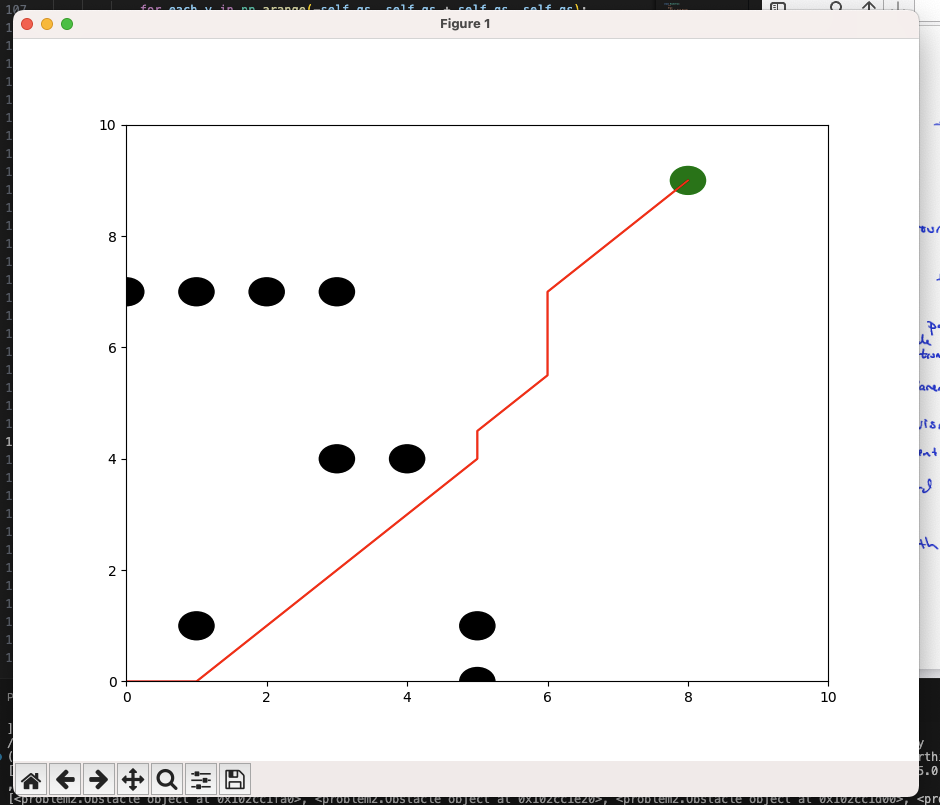
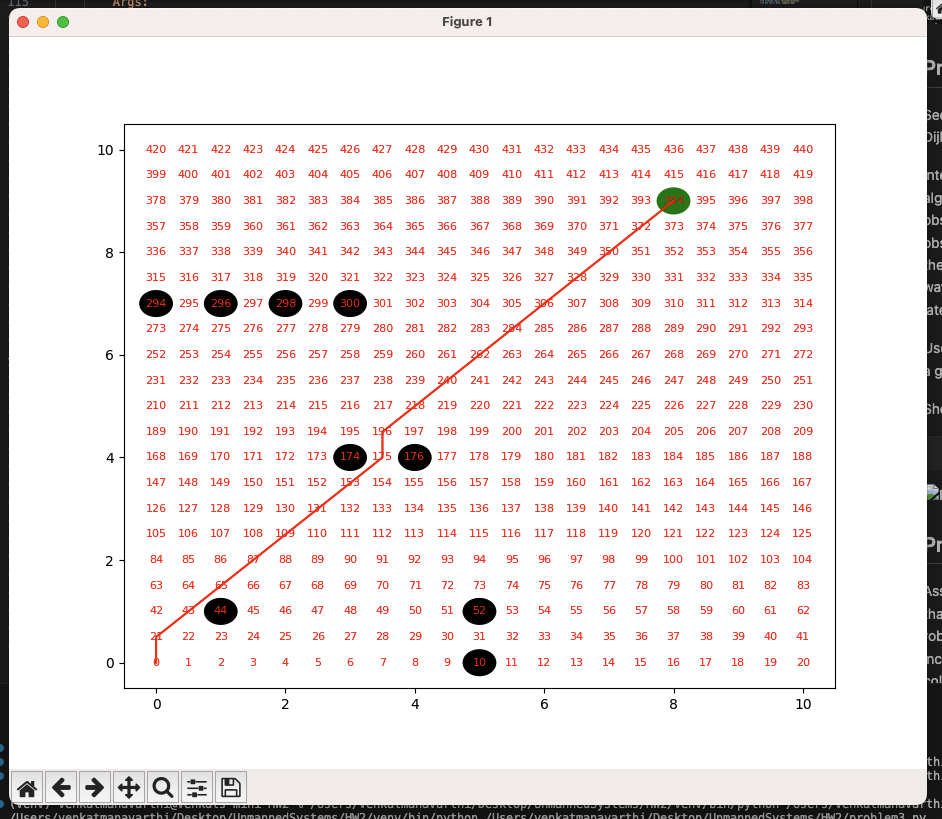
Problem 3

Changed region(s): [[0.0926, 0.1553, 0.8947, 0.8696], [0.0, 0.0, 1.0, 1.0], [0.5862, 0.7143, 0.617, 0.7453]]

diff --git a/problem3.py b/problem3.py
@@ -117,18 +117,26 @@ class Dijkstras:
         Returns:
           None
         """
-        print(route)
         import matplotlib.pyplot as plt
+        import numpy as np
         fig, ax = plt.subplots()
-        ax.set_xlim(0, 10)
-        ax.set_ylim(0, 10)
-        print(self.obs_list) 
+
+        x_values = np.arange(self.min_x, self.max_x + self.gs, self.gs)
+        y_values = np.arange(self.min_y, self.max_y + self.gs, self.gs)
+
+        for y in y_values:
+            for x in x_values:
+                index = compute_index(self.min_x, self.max_x, self.min_y, self.max_y, self.gs, x, y)
+                plt.text(x, y, str(index), color='red', fontsize=8, ha='center', va='center')
+
         for obs in self.obs_list:
             obs_plot = plt.Circle((obs.x, obs.y), obs.radius, color='black')
             ax.add_patch(obs_plot)
-        obs_plot = plt.Circle((self.goal[0], self.goal[1]), self.r_radius, color='green')
+        obs_plot = plt.Circle((self.goal[0], self.goal[1]), self.r_radius + 0.25, color='green')
         ax.add_patch(obs_plot)
         plt.plot([x[0] for x in route], [x[1] for x in route], c='red')
+        plt.xlim(self.min_x - self.gs, self.max_x + self.gs)
+        plt.ylim(self.min_y - self.gs, self.max_y + self.gs)
         plt.show()
 
 if __name__ == "__main__":
@@ -138,5 +146,5 @@ if __name__ == "__main__":
     obs_list = [Obstacle(each_ob[0], each_ob[1], obs_radius)
                 for each_ob in obs_pos]
     djs = Dijkstras(0, 0, 10, 10, 0.5)
-    route = djs.run(start=(0, 0), goal=(8, 9), r_radius=0.25, obs_list=obs_list)
+    route = djs.run(start=(0, 0), goal=(8, 9), r_radius=0, obs_list=obs_list)
     djs.plot_route(route=route)

diff --git a/README.md b/README.md
@@ -257,18 +257,26 @@ class Dijkstras:
         Returns:
           None
         """
-        print(route)
         import matplotlib.pyplot as plt
+        import numpy as np
         fig, ax = plt.subplots()
-        ax.set_xlim(0, 10)
-        ax.set_ylim(0, 10)
-        print(self.obs_list) 
+
+        x_values = np.arange(self.min_x, self.max_x + self.gs, self.gs)
+        y_values = np.arange(self.min_y, self.max_y + self.gs, self.gs)
+
+        for y in y_values:
+            for x in x_values:
+                index = compute_index(self.min_x, self.max_x, self.min_y, self.max_y, self.gs, x, y)
+                plt.text(x, y, str(index), color='red', fontsize=8, ha='center', va='center')
+
         for obs in self.obs_list:
             obs_plot = plt.Circle((obs.x, obs.y), obs.radius, color='black')
             ax.add_patch(obs_plot)
-        obs_plot = plt.Circle((self.goal[0], self.goal[1]), self.r_radius, color='green')
+        obs_plot = plt.Circle((self.goal[0], self.goal[1]), self.r_radius + 0.25, color='green')
         ax.add_patch(obs_plot)
         plt.plot([x[0] for x in route], [x[1] for x in route], c='red')
+        plt.xlim(self.min_x - self.gs, self.max_x + self.gs)
+        plt.ylim(self.min_y - self.gs, self.max_y + self.gs)
         plt.show()
 
 if __name__ == "__main__":
@@ -278,7 +286,7 @@ if __name__ == "__main__":
     obs_list = [Obstacle(each_ob[0], each_ob[1], obs_radius)
                 for each_ob in obs_pos]
     djs = Dijkstras(0, 0, 10, 10, 0.5)
-    route = djs.run(start=(0, 0), goal=(8, 9), r_radius=0.25, obs_list=obs_list)
+    route = djs.run(start=(0, 0), goal=(8, 9), r_radius=0, obs_list=obs_list)
     djs.plot_route(route=route)
 ```
 ![Problem 3 Output](./images/problem3.png)
